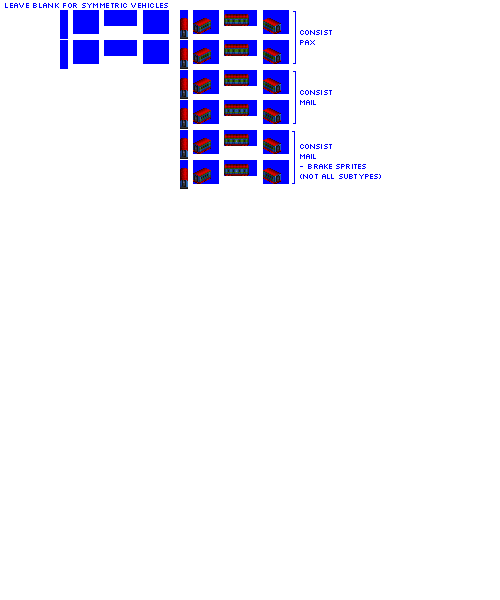
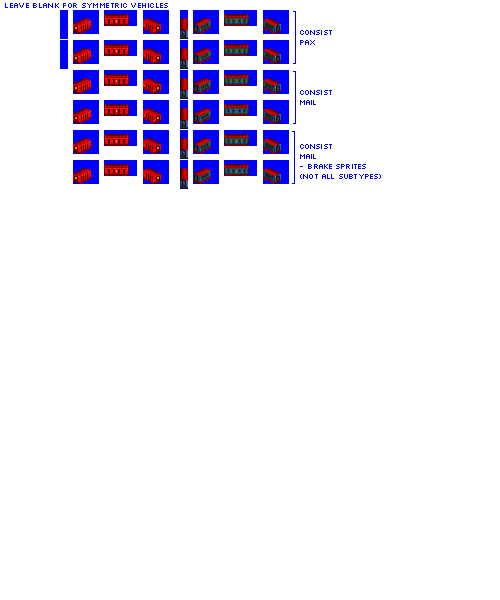
Change: sprites complete for gen 3B mail car

Changed region(s): [[0.12, 0.0, 0.36, 0.33]]

diff --git a/src/vehicles/mail_cars.py b/src/vehicles/mail_cars.py
@@ -69,7 +69,8 @@ def main():
     consist = MailCarConsist(roster='pony',
                              base_numeric_id=2300,
                              gen=3,
-                             subtype='B')
+                             subtype='B',
+                             sprites_complete=True)
 
     consist.add_unit(type=PaxMailCar,
                      capacity=12,
